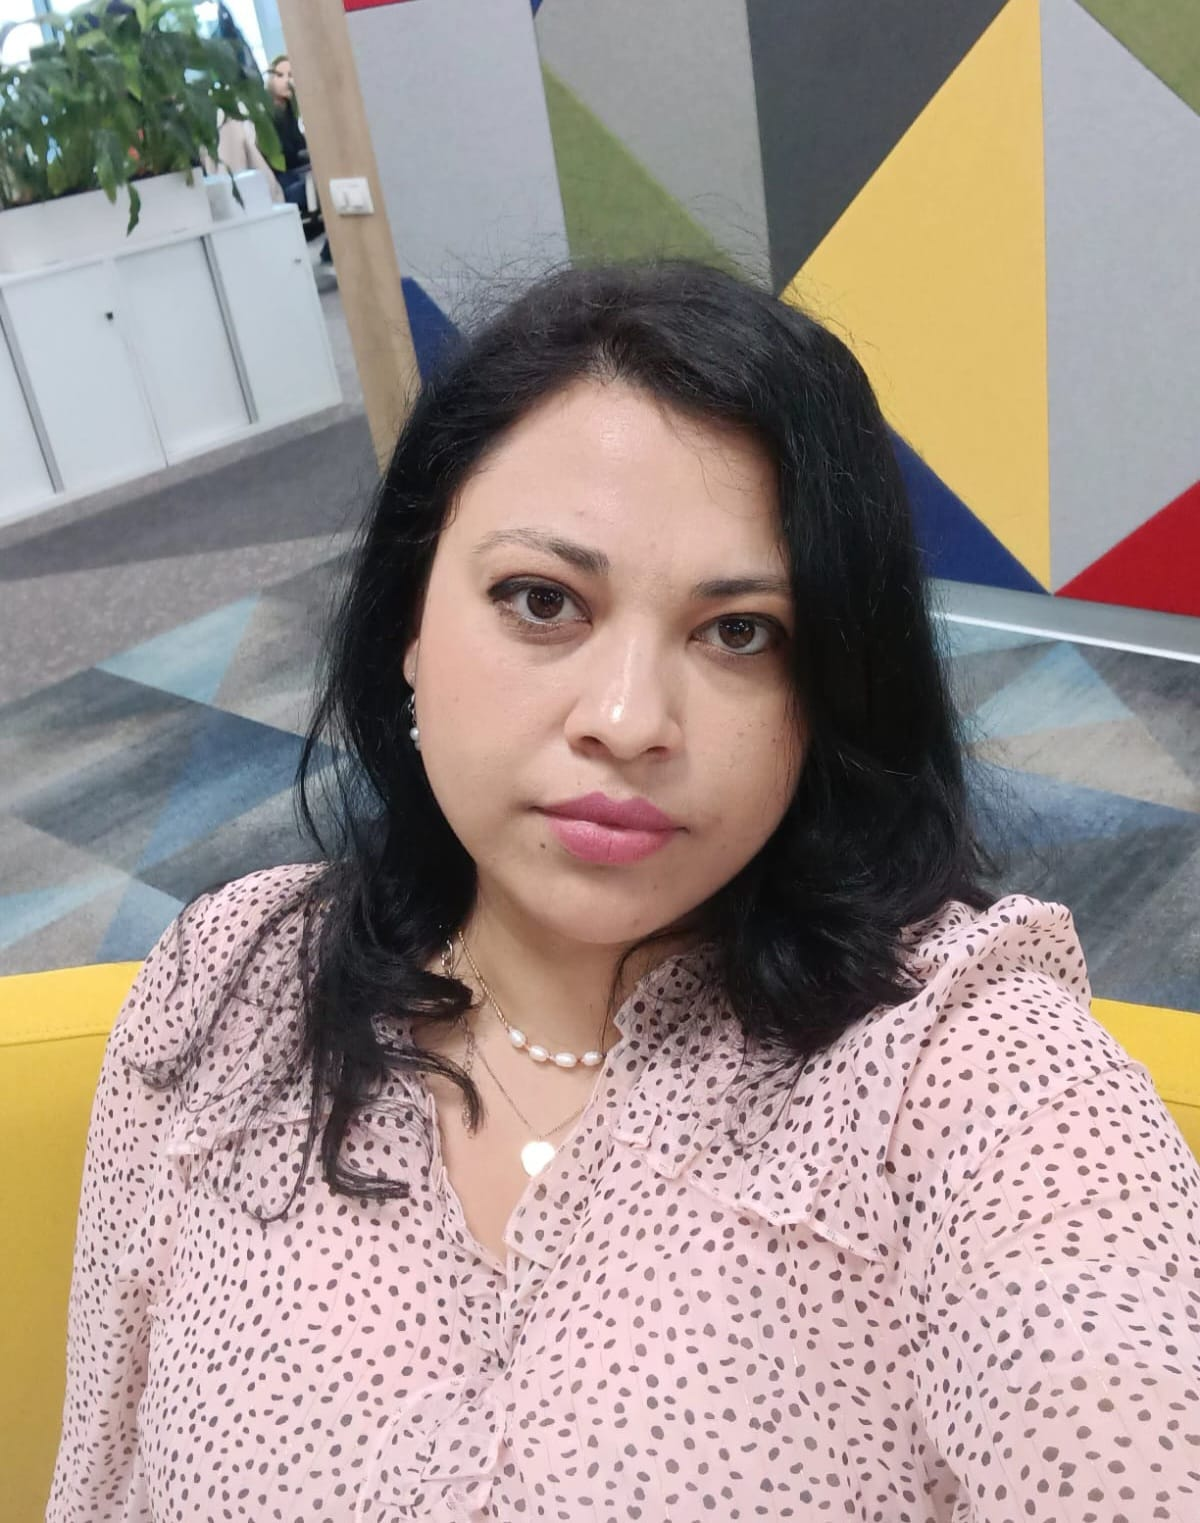
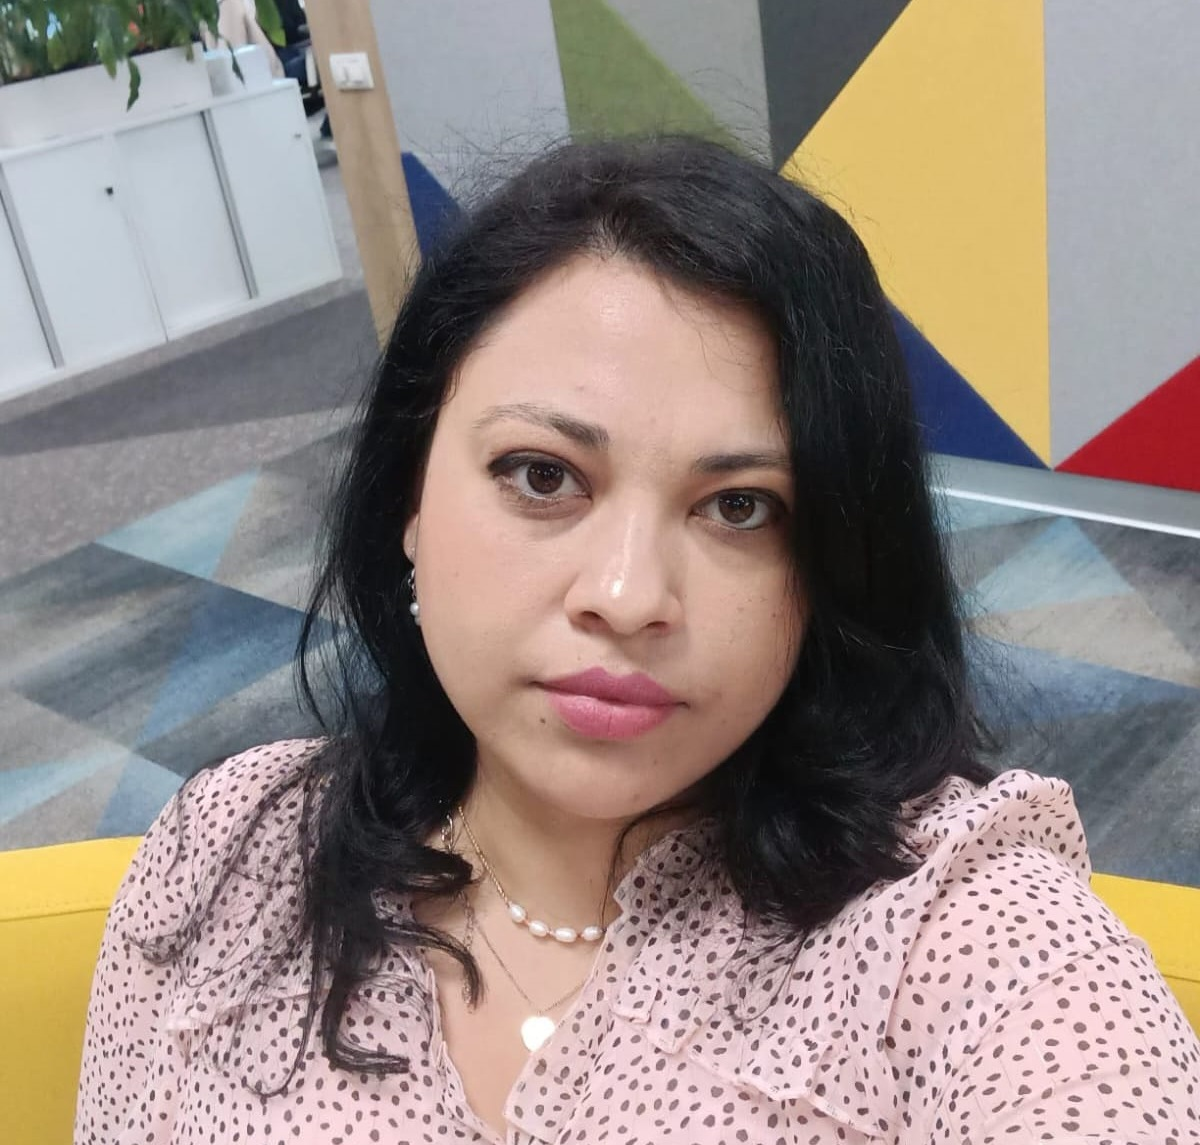
modificare mail si poze

diff --git a/styles.css b/styles.css
@@ -241,6 +241,7 @@ a {
   width: 100%;
   height: 560px;
   object-fit: cover;
+  object-position: top center;
   border-radius: var(--radius-xl);
   box-shadow: var(--shadow-lg);
 }
@@ -418,6 +419,7 @@ h3 {
   width: 100%;
   height: 500px;
   object-fit: cover;
+  object-position: top center;
   border-radius: var(--radius-xl);
   box-shadow: var(--shadow-lg);
 }
@@ -489,6 +491,7 @@ h3 {
   width: 100%;
   height: 340px;
   object-fit: cover;
+  object-position: top center;
   border-radius: var(--radius-lg);
   box-shadow: var(--shadow);
   transition: var(--transition);
@@ -497,6 +500,10 @@ h3 {
 .image-grid img:hover {
   transform: scale(1.02);
   box-shadow: var(--shadow-lg);
+}
+
+.image-grid img.img-center-face {
+  object-position: center 30%;
 }
 
 /* ═══ COACHING INFO ═══ */
@@ -615,9 +622,10 @@ h3 {
 
 .testimonial-grid {
   display: grid;
-  grid-template-columns: repeat(3, 1fr);
+  grid-template-columns: repeat(4, 1fr);
   gap: 1.5rem;
   margin-top: 3rem;
+  align-items: start;
 }
 
 .testimonial {
@@ -630,6 +638,60 @@ h3 {
   box-shadow: var(--shadow-sm);
   transition: var(--transition);
   position: relative;
+  display: flex;
+  flex-direction: column;
+}
+
+.testimonial-img {
+  width: 80px;
+  height: 80px;
+  border-radius: 50%;
+  object-fit: cover;
+  margin: 0 auto 1rem;
+  border: 3px solid var(--border);
+}
+
+/* Scrollable wrapper for long testimonials */
+.testimonial-scroll {
+  max-height: 120px;
+  overflow: hidden;
+  transition: max-height 0.4s ease;
+  position: relative;
+}
+
+.testimonial-scroll::after {
+  content: "";
+  position: absolute;
+  bottom: 0;
+  left: 0;
+  right: 0;
+  height: 40px;
+  background: linear-gradient(transparent, var(--card));
+  pointer-events: none;
+  transition: opacity 0.3s ease;
+}
+
+.testimonial--long:hover .testimonial-scroll {
+  max-height: 400px;
+  overflow-y: auto;
+}
+
+.testimonial--long:hover .testimonial-scroll::after {
+  opacity: 0;
+}
+
+/* Custom scrollbar for testimonial */
+.testimonial-scroll::-webkit-scrollbar {
+  width: 4px;
+}
+
+.testimonial-scroll::-webkit-scrollbar-track {
+  background: transparent;
+}
+
+.testimonial-scroll::-webkit-scrollbar-thumb {
+  background: var(--primary);
+  border-radius: 4px;
 }
 
 .testimonial::before {
@@ -910,7 +972,9 @@ h3 {
   }
 
   .hero-image {
-    height: 320px;
+    height: 380px;
+    object-fit: cover;
+    object-position: top center;
     border-radius: var(--radius-lg);
   }
 
@@ -938,7 +1002,9 @@ h3 {
   }
 
   .about-image {
-    height: 350px;
+    height: 380px;
+    object-fit: cover;
+    object-position: top center;
     border-radius: var(--radius-lg);
   }
 
@@ -955,7 +1021,9 @@ h3 {
   }
 
   .image-grid img {
-    height: 240px;
+    height: 300px;
+    object-fit: cover;
+    object-position: top center;
   }
 
   .coaching-benefits {

diff --git a/index.html b/index.html
@@ -67,7 +67,7 @@
 
             <div class="hero-buttons">
               <a
-                href="https://calendar.app.google/Et7LbXWfFzztUcgCA"
+                href="https://calendar.app.google/3qDL8nJC2t9nUMEk8"
                 class="btn btn-primary"
                 target="_blank"
                 rel="noopener noreferrer"
@@ -181,7 +181,7 @@
           <h2 class="center" data-i18n="gallery_title">Un cadru cald și profesionist</h2>
           <div class="image-grid">
             <img src="images/coaching-session.jpg" alt="Sesiune de coaching" />
-            <img src="images/leadership.jpg" alt="Leadership și dezvoltare profesională" />
+            <img src="images/leadership.jpg" alt="Leadership și dezvoltare profesională" class="img-center-face" />
           </div>
         </div>
       </section>
@@ -264,13 +264,25 @@
           <p class="section-tag center" data-i18n="testimonials_tag">Testimoniale</p>
           <h2 class="center" data-i18n="testimonials_title">Ce spun clienții despre experiența de coaching</h2>
           <div class="testimonial-grid">
+            <blockquote class="testimonial testimonial--long">
+              <img src="images/testimonial.jpeg" alt="Client coaching" class="testimonial-img" />
+              <div class="testimonial-scroll">
+                <p data-i18n="testimonial_4">
+                  „Am uitat să îți scriu atunci când m-ai întrebat despre progresele în pașii de acțiune, dar îți scriu acum: am urmat aproape toți pașii care mi i-am propus la ultima noastră întâlnire referitor la dezvoltarea relației cu fiicele mele. Scopul era ca să le fac să comunice mai mult. Iar rezultatul a fost unul peste așteptări: am avut parte de momente scumpe de conectare, cuvinte de încurajare reciproce, reacții pozitive la unele provocări, plimbări și ieșiri împreună.
+                  Dar cel mai minunat a fost când într-una din zile acasă mă aștepta un buchet de flori și o scrisoare de la fiica mai mare. Am fost atât de impresionată fiindcă astfel de gest mi-a vorbit mai mult decât 1000 de cuvinte.
+                  Am vrut să îți spun că sunt foarte recunoscătoare pentru întâlnirile care le-ai avut cu mine și că m-ai însoțit în această călătorie prin coaching!
+                  Te cuprind cu mare drag!"
+                </p>
+              </div>
+              <footer data-i18n="testimonial_4_author">— Client coaching</footer>
+            </blockquote>
             <blockquote class="testimonial">
               <p data-i18n="testimonial_1">
                 „Am obținut mai multă claritate în carieră și curajul de a lua
                 decizii importante pentru mine."
               </p>
               <footer data-i18n="testimonial_1_author">— Client career coaching</footer>
-              <a href="https://www.youtube.com/watch?v=PLACEHOLDER_TESTIMONIAL1" class="testimonial-video" target="_blank" rel="noopener noreferrer" data-i18n="testimonial_video">🎥 Vezi testimonialul video</a>
+              <!-- <a href="https://www.youtube.com/watch?v=PLACEHOLDER_TESTIMONIAL1" class="testimonial-video" target="_blank" rel="noopener noreferrer" data-i18n="testimonial_video">🎥 Vezi testimonialul video</a> -->
             </blockquote>
             <blockquote class="testimonial">
               <p data-i18n="testimonial_2">
@@ -278,7 +290,7 @@
                 și să comunic mai eficient cu echipa."
               </p>
               <footer data-i18n="testimonial_2_author">— Client leadership coaching</footer>
-              <a href="https://www.youtube.com/watch?v=PLACEHOLDER_TESTIMONIAL2" class="testimonial-video" target="_blank" rel="noopener noreferrer" data-i18n="testimonial_video">🎥 Vezi testimonialul video</a>
+              <!-- <a href="https://www.youtube.com/watch?v=PLACEHOLDER_TESTIMONIAL2" class="testimonial-video" target="_blank" rel="noopener noreferrer" data-i18n="testimonial_video">🎥 Vezi testimonialul video</a> -->
             </blockquote>
             <blockquote class="testimonial">
               <p data-i18n="testimonial_3">
@@ -286,7 +298,7 @@
                 cald și foarte util."
               </p>
               <footer data-i18n="testimonial_3_author">— Client executive coaching</footer>
-              <a href="https://www.youtube.com/watch?v=PLACEHOLDER_TESTIMONIAL3" class="testimonial-video" target="_blank" rel="noopener noreferrer" data-i18n="testimonial_video">🎥 Vezi testimonialul video</a>
+              <!-- <a href="https://www.youtube.com/watch?v=PLACEHOLDER_TESTIMONIAL3" class="testimonial-video" target="_blank" rel="noopener noreferrer" data-i18n="testimonial_video">🎥 Vezi testimonialul video</a> -->
             </blockquote>
           </div>
         </div>
@@ -304,7 +316,7 @@
 
             <div class="contact-shortcuts">
               <a href="tel:+0763453522" class="contact-chip">📞 +40 763 453 522</a>
-              <a href="mailto:[email redacted]" class="contact-chip">✉️ [email redacted]</a>
+              <a href="mailto:[email redacted]" class="contact-chip">✉️ [email redacted]</a>
             </div>
           </div>
 
@@ -316,7 +328,7 @@
             </p>
 
             <a
-              href="https://calendar.app.google/Et7LbXWfFzztUcgCA"
+              href="https://calendar.app.google/3qDL8nJC2t9nUMEk8"
               class="btn btn-primary full"
               target="_blank"
               rel="noopener noreferrer"
@@ -342,10 +354,10 @@
           <div class="contact-card">
             <p><strong>Nedeloiu Maria</strong></p>
             <p><a href="tel:+0763453522">+40 763 453 522</a></p>
-            <p><a href="mailto:[email redacted]">[email redacted]</a></p>
+            <p><a href="mailto:[email redacted]">[email redacted]</a></p>
             <div class="contact-actions">
               <a href="tel:+0763453522" class="btn btn-primary" data-i18n="contact_call">Sună</a>
-              <a href="mailto:[email redacted]" class="btn btn-secondary" data-i18n="contact_email">Trimite email</a>
+              <a href="mailto:[email redacted]" class="btn btn-secondary" data-i18n="contact_email">Trimite email</a>
             </div>
           </div>
         </div>

diff --git a/script.js b/script.js
@@ -87,6 +87,8 @@ document.addEventListener("DOMContentLoaded", function () {
       testimonial_3: '"I felt support, structure and a lot of clarity. The process was warm and very useful."',
       testimonial_3_author: "— Executive coaching client",
       testimonial_video: "🎥 Watch video testimonial",
+      testimonial_4: `"I forgot to write to you when you asked me about the progress on my action steps, but I'm writing now: I followed almost all the steps I set for myself at our last meeting regarding developing the relationship with my daughters. The goal was to get them to communicate more. And the result exceeded my expectations: I experienced precious moments of connection, mutual words of encouragement, positive reactions to some challenges, walks and outings together.\nBut the most wonderful thing was when one day at home a bouquet of flowers and a letter from my older daughter were waiting for me. I was so moved because that gesture spoke to me more than 1,000 words.\nI wanted to tell you that I am very grateful for the meetings you had with me and that you accompanied me on this journey through coaching!\nI embrace you with great affection!"`,
+      testimonial_4_author: "— Coaching client",
 
       booking_tag: "Booking",
       booking_title: "Book directly from the calendar",
@@ -179,6 +181,8 @@ document.addEventListener("DOMContentLoaded", function () {
       testimonial_3: `„Am simțit susținere, structură și multă claritate. Procesul a fost cald și foarte util."`,
       testimonial_3_author: "— Client executive coaching",
       testimonial_video: "🎥 Vezi testimonialul video",
+      testimonial_4: `„Am uitat să îți scriu atunci când m-ai întrebat despre progresele în pașii de acțiune, dar îți scriu acum: am urmat aproape toți pașii care mi i-am propus la ultima noastră întâlnire referitor la dezvoltarea relației cu fiicele mele. Scopul era ca să le fac să comunice mai mult. Iar rezultatul a fost unul peste așteptări: am avut parte de momente scumpe de conectare, cuvinte de încurajare reciproce, reacții pozitive la unele provocări, plimbări și ieșiri împreună.\nDar cel mai minunat a fost când într-una din zile acasă mă aștepta un buchet de flori și o scrisoare de la fiica mai mare. Am fost atât de impresionată fiindcă astfel de gest mi-a vorbit mai mult decât 1000 de cuvinte.\nAm vrut să îți spun că sunt foarte recunoscătoare pentru întâlnirile care le-ai avut cu mine și că m-ai însoțit în această călătorie prin coaching!\nTe cuprind cu mare drag!"`,
+      testimonial_4_author: "— Client coaching",
 
       booking_tag: "Programare",
       booking_title: "Rezervă direct din calendar",
@@ -312,7 +316,7 @@ document.addEventListener("DOMContentLoaded", function () {
 
       formMessage.textContent = "Cererea ta este pregătită. Se va deschide aplicația de email pentru trimitere.";
       setTimeout(function () {
-        window.location.href = "mailto:[email redacted]?subject=" + subject + "&body=" + body;
+        window.location.href = "mailto:[email redacted]?subject=" + subject + "&body=" + body;
       }, 400);
       bookingForm.reset();
     });